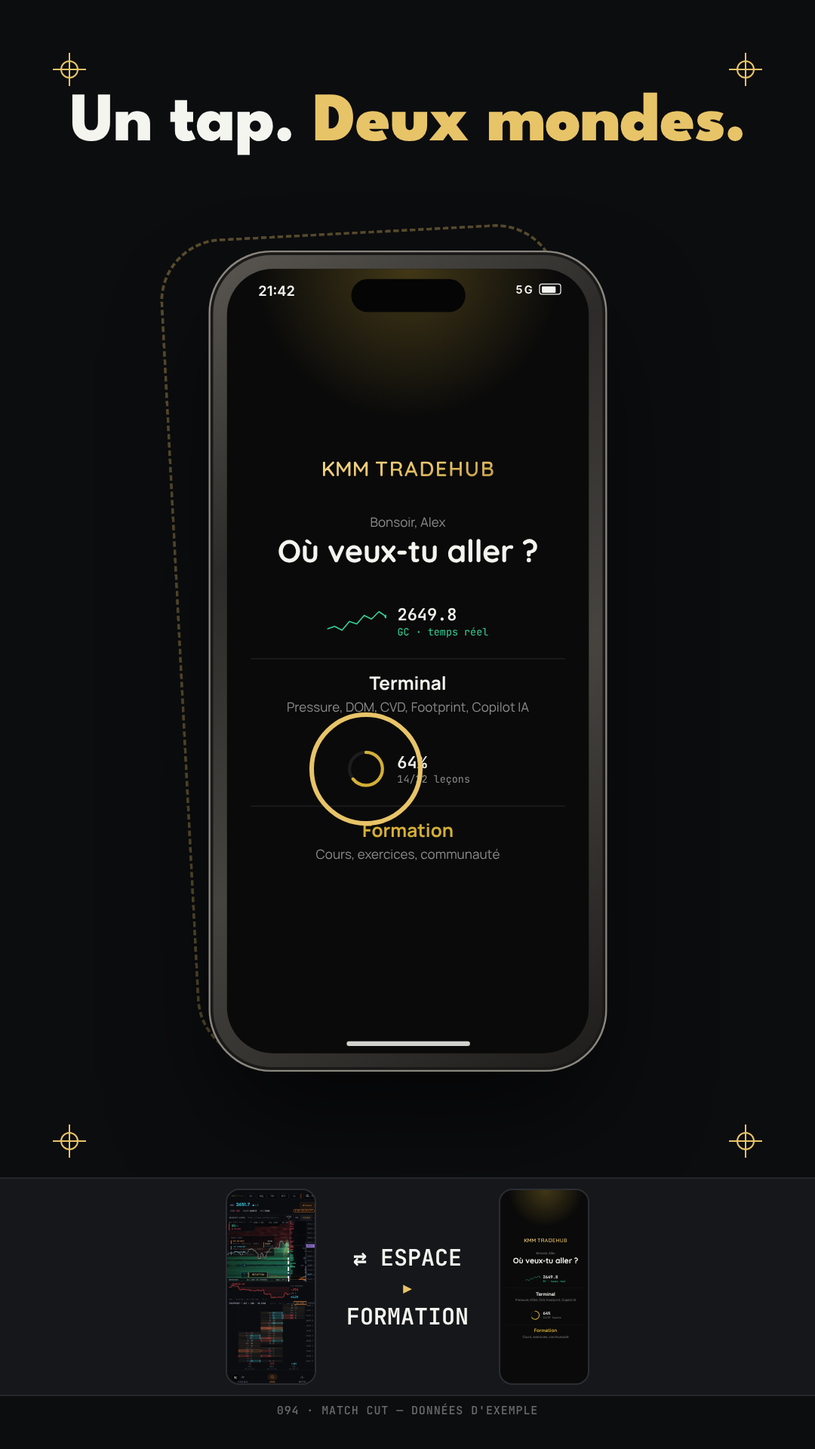
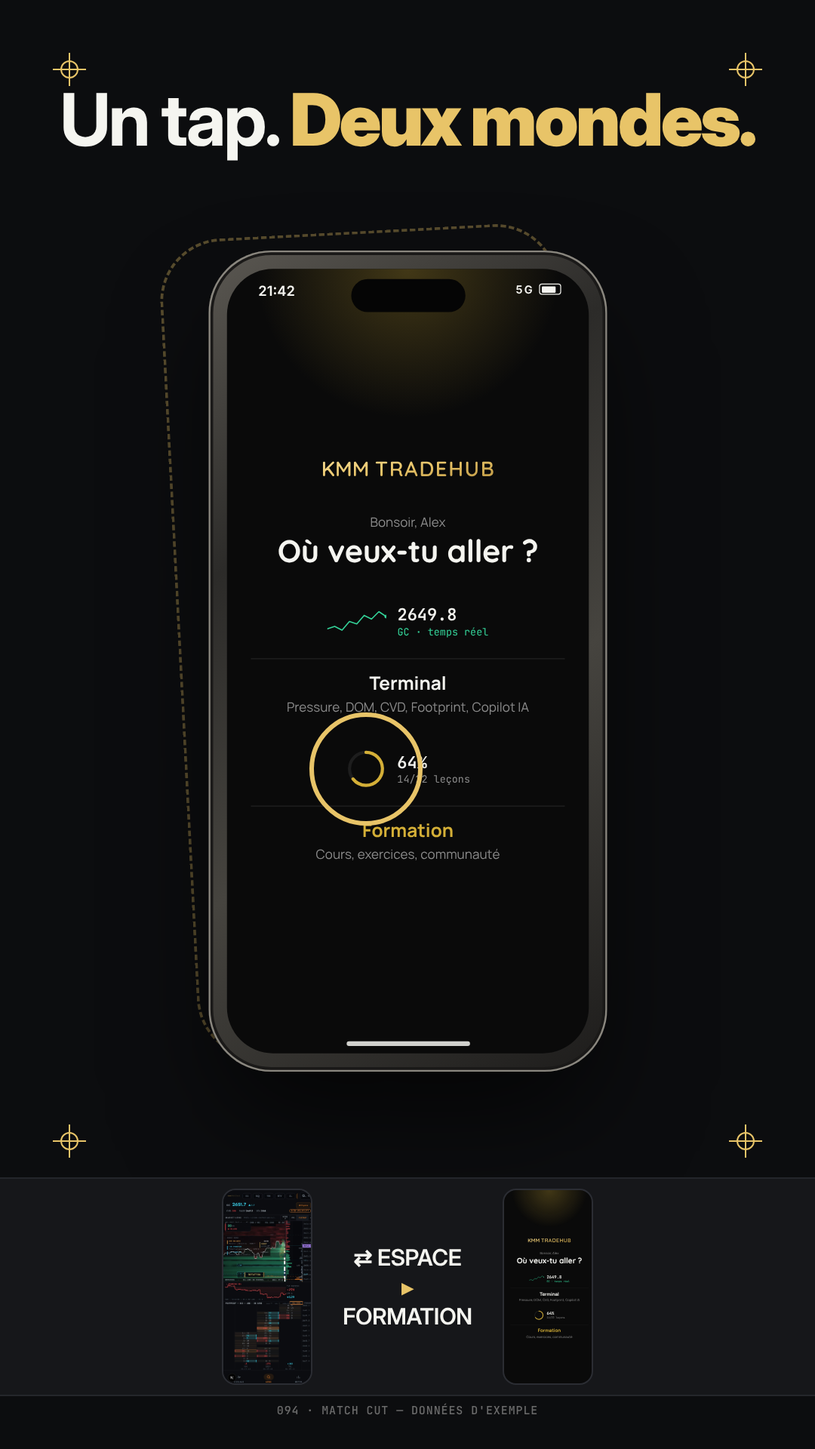
Storyboard, ledger and sketch sheet for the KMM Terminal launch film
Claude-Session: https://claude.ai/code/session_018p2rQxdw9kWT4Mbba8EZ7w

diff --git a/motion/kmm-terminal-launch/sketch/f5.html b/motion/kmm-terminal-launch/sketch/f5.html
@@ -1,0 +1,29 @@
+<!doctype html><html lang="fr"><head><meta charset="utf-8"><link rel="stylesheet" href="../themes/shared.css"><style>
+.fh{position:absolute;inset:0;padding:70px 20px 0;font-family:Manrope,sans-serif}
+.fh .top{display:flex;justify-content:space-between;align-items:flex-end}.fh .g{font-size:16px;color:var(--dim)}.fh .nm{font:700 30px/1.1 Quicksand,sans-serif}.fh .streak{color:#fb923c;font-size:14px;font-weight:600;padding-bottom:4px}
+.fh .next{margin-top:26px;display:flex;gap:14px;align-items:center;padding:18px;border-radius:18px;border:1px solid rgba(212,175,55,.25);background:linear-gradient(135deg,rgba(212,175,55,.08),rgba(212,175,55,.03))}
+.fh .rp{font-size:11px;font-weight:600;letter-spacing:.18em;color:rgba(212,175,55,.7)}.fh .lt{font-size:15px;font-weight:600;margin-top:3px}.fh .ct{font-size:12px;color:var(--dim)}
+.fh .stats{margin-top:22px;display:flex;align-items:center;padding:18px 10px;border-radius:18px;border:1px solid rgba(255,255,255,.07);background:var(--panel)}.fh .stats div{flex:1;text-align:center}.fh .stats p{font-size:24px;font-weight:700}.fh .stats span{font-size:11px;color:var(--dim);letter-spacing:.06em}.fh .stats i{width:1px;height:36px;background:rgba(255,255,255,.08)}
+.fh .h2{margin-top:26px;font:700 20px/1 Quicksand,sans-serif}
+.fh .course{margin-top:12px;display:flex;gap:14px;align-items:center;padding:14px;border-radius:14px;border:1px solid rgba(255,255,255,.07);background:var(--panel)}.fh .ctt{font-size:14px;font-weight:600}.fh .ctn{font-size:12px;color:var(--dim);margin-top:2px}
+.fh .nav{position:absolute;left:0;right:0;bottom:0;height:84px;border-top:1px solid rgba(255,255,255,.07);background:#0d0d0d;display:flex;justify-content:space-around;padding-top:16px;font-size:11px;color:var(--faint)}.fh .nav .on{color:var(--gold)}
+body{background:#0c0d0f}
+.H{position:absolute;left:0;right:0;text-align:center;font:700 104px/1.02 InterD,sans-serif;letter-spacing:-.035em;color:#f5f5f7}
+.H span{color:#86868b}.H b{color:var(--gold-m);font-weight:700}
+.S{position:absolute;left:0;right:0;text-align:center;font:500 36px/1.2 InterD,sans-serif;color:#86868b;letter-spacing:-.01em}
+.circ{position:absolute;left:465px;top:885px;width:150px;height:150px;border-radius:50%;border:6px solid var(--gold-m)}
+.num{position:absolute;left:24px;top:24px;font:600 22px/1 'JetBrains Mono',monospace;color:#6e6e73;letter-spacing:.06em}
+.ex{position:absolute;left:0;right:0;bottom:40px;text-align:center}
+.card3d{position:absolute;width:520px;padding:26px 30px;border-radius:22px;background:#111317;border:1px solid #2a2e35;box-shadow:0 40px 80px rgba(0,0,0,.6);font-family:'JetBrains Mono',monospace}
+.card3d .k{color:#e8822a;font-weight:600;font-size:28px;letter-spacing:.04em}.card3d .k small{color:#6b7683;font-size:18px;margin-left:10px}.card3d .sc{float:right;color:#e8822a;font-size:28px}.card3d .d{color:#c8d2da;font-size:22px;margin-top:10px;line-height:1.35}
+.dot{position:absolute;width:64px;height:64px;border-radius:50%;background:rgba(232,196,104,.25);border:3px solid var(--gold-m)}
+</style></head><body><div class="stage"><div class="iphone" style="left:324px;top:120px;transform:scale(.78)"><div class="screen"><div class="island"></div><div class="status"><span>21:42</span><span>5G</span></div><div class="hub"><div class="glow"></div>
+  <svg class="logo" viewBox="0 0 225 64" role="img" aria-label="KMM Trade Hub"><defs><linearGradient id="lg" x1="0" y1="0" x2="1" y2="1"><stop offset="0%" stop-color="#f5dc96"/><stop offset="50%" stop-color="#e8c468"/><stop offset="100%" stop-color="#b8923e"/></linearGradient></defs><text x="4" y="44" font-size="26" font-weight="600" fill="url(#lg)" style="font-family:Quicksand,sans-serif"><tspan>KMM</tspan><tspan letter-spacing="1.5" dx="7">TRADEHUB</tspan></text></svg>
+  <p class="hello">Bonsoir, Alex</p>
+  <h1>Où veux-tu aller ?</h1>
+  <div class="card"><div class="mock"><svg viewBox="0 0 96 40" width="64" height="28" fill="none"><polyline points="0,32 12,28 24,34 36,20 48,24 60,10 72,16 84,4 96,12" stroke="#34d399" stroke-width="2" stroke-linecap="round" stroke-linejoin="round"/><circle cx="96" cy="12" r="3" fill="#34d399"/></svg><div><p class="n">2649.8</p><p class="s" style="color:#34d399">GC · temps réel</p></div></div>
+    <div class="rule"><p class="t">Terminal</p><p class="b">Pressure, DOM, CVD, Footprint, Copilot IA</p></div></div>
+  <div class="card on"><div class="mock"><svg viewBox="0 0 64 64" width="44" height="44" style="transform:rotate(-90deg)"><circle cx="32" cy="32" r="26" fill="none" stroke="rgba(255,255,255,.08)" stroke-width="5"/><circle cx="32" cy="32" r="26" fill="none" stroke="#d4af37" stroke-width="5" stroke-linecap="round" stroke-dasharray="163.4" stroke-dashoffset="58.8"/></svg><div><p class="n">64%</p><p class="s" style="color:var(--dim)">14/22 leçons</p></div></div>
+    <div class="rule"><p class="t">Formation</p><p class="b">Cours, exercices, communauté</p></div></div>
+</div>
+<div class="home"></div></div></div><p class="H" style="top:1050px;font-size:110px">Ton terminal.<br>Ta formation.<br><span>Enfin dans ta poche</span><b>.</b></p><svg viewBox="0 0 225 64" style="position:absolute;left:390px;top:1560px;width:300px"><defs><linearGradient id="lg2" x1="0" y1="0" x2="1" y2="1"><stop offset="0%" stop-color="#f5dc96"/><stop offset="50%" stop-color="#e8c468"/><stop offset="100%" stop-color="#b8923e"/></linearGradient></defs><text x="4" y="44" font-size="26" font-weight="600" fill="url(#lg2)" style="font-family:Quicksand,sans-serif"><tspan>KMM</tspan><tspan letter-spacing="1.5" dx="7">TRADEHUB</tspan></text></svg><p class="S" style="top:1690px">kmmterminal.com</p><p class="num">5 · 0:17–20</p></div></body></html>

diff --git a/motion/kmm-terminal-launch/sketch/f3b.html b/motion/kmm-terminal-launch/sketch/f3b.html
@@ -1,0 +1,29 @@
+<!doctype html><html lang="fr"><head><meta charset="utf-8"><link rel="stylesheet" href="../themes/shared.css"><style>
+.fh{position:absolute;inset:0;padding:70px 20px 0;font-family:Manrope,sans-serif}
+.fh .top{display:flex;justify-content:space-between;align-items:flex-end}.fh .g{font-size:16px;color:var(--dim)}.fh .nm{font:700 30px/1.1 Quicksand,sans-serif}.fh .streak{color:#fb923c;font-size:14px;font-weight:600;padding-bottom:4px}
+.fh .next{margin-top:26px;display:flex;gap:14px;align-items:center;padding:18px;border-radius:18px;border:1px solid rgba(212,175,55,.25);background:linear-gradient(135deg,rgba(212,175,55,.08),rgba(212,175,55,.03))}
+.fh .rp{font-size:11px;font-weight:600;letter-spacing:.18em;color:rgba(212,175,55,.7)}.fh .lt{font-size:15px;font-weight:600;margin-top:3px}.fh .ct{font-size:12px;color:var(--dim)}
+.fh .stats{margin-top:22px;display:flex;align-items:center;padding:18px 10px;border-radius:18px;border:1px solid rgba(255,255,255,.07);background:var(--panel)}.fh .stats div{flex:1;text-align:center}.fh .stats p{font-size:24px;font-weight:700}.fh .stats span{font-size:11px;color:var(--dim);letter-spacing:.06em}.fh .stats i{width:1px;height:36px;background:rgba(255,255,255,.08)}
+.fh .h2{margin-top:26px;font:700 20px/1 Quicksand,sans-serif}
+.fh .course{margin-top:12px;display:flex;gap:14px;align-items:center;padding:14px;border-radius:14px;border:1px solid rgba(255,255,255,.07);background:var(--panel)}.fh .ctt{font-size:14px;font-weight:600}.fh .ctn{font-size:12px;color:var(--dim);margin-top:2px}
+.fh .nav{position:absolute;left:0;right:0;bottom:0;height:84px;border-top:1px solid rgba(255,255,255,.07);background:#0d0d0d;display:flex;justify-content:space-around;padding-top:16px;font-size:11px;color:var(--faint)}.fh .nav .on{color:var(--gold)}
+body{background:#0c0d0f}
+.H{position:absolute;left:0;right:0;text-align:center;font:700 104px/1.02 InterD,sans-serif;letter-spacing:-.035em;color:#f5f5f7}
+.H span{color:#86868b}.H b{color:var(--gold-m);font-weight:700}
+.S{position:absolute;left:0;right:0;text-align:center;font:500 36px/1.2 InterD,sans-serif;color:#86868b;letter-spacing:-.01em}
+.circ{position:absolute;left:465px;top:885px;width:150px;height:150px;border-radius:50%;border:6px solid var(--gold-m)}
+.num{position:absolute;left:24px;top:24px;font:600 22px/1 'JetBrains Mono',monospace;color:#6e6e73;letter-spacing:.06em}
+.ex{position:absolute;left:0;right:0;bottom:40px;text-align:center}
+.card3d{position:absolute;width:520px;padding:26px 30px;border-radius:22px;background:#111317;border:1px solid #2a2e35;box-shadow:0 40px 80px rgba(0,0,0,.6);font-family:'JetBrains Mono',monospace}
+.card3d .k{color:#e8822a;font-weight:600;font-size:28px;letter-spacing:.04em}.card3d .k small{color:#6b7683;font-size:18px;margin-left:10px}.card3d .sc{float:right;color:#e8822a;font-size:28px}.card3d .d{color:#c8d2da;font-size:22px;margin-top:10px;line-height:1.35}
+.dot{position:absolute;width:64px;height:64px;border-radius:50%;background:rgba(232,196,104,.25);border:3px solid var(--gold-m)}
+</style></head><body><div class="stage"><div class="iphone" style="left:324px;top:330px;transform:scale(1.22)"><div class="screen"><div class="island"></div><div class="status"><span>21:42</span><span>5G</span></div><div class="fh">
+<div class="top"><div><p class="g">Bonsoir,</p><p class="nm">Alex</p></div><p class="streak">🔥 6j de suite</p></div>
+<div class="next"><svg viewBox="0 0 64 64" width="52" height="52" style="transform:rotate(-90deg)"><circle cx="32" cy="32" r="26" fill="none" stroke="rgba(255,255,255,.08)" stroke-width="5"/><circle cx="32" cy="32" r="26" fill="none" stroke="#d4af37" stroke-width="5" stroke-linecap="round" stroke-dasharray="163.4" stroke-dashoffset="98"/></svg>
+<div><p class="rp">REPRENDRE</p><p class="lt">Jour 3 — Structure du marché (les bases)</p><p class="ct">Masterclass XAUUSD Gold</p></div></div>
+<div class="stats"><div><p>14</p><span>LEÇONS</span></div><i></i><div><p>6</p><span>STREAK</span></div><i></i><div><p>64%</p><span>COMPLÉTÉ</span></div></div>
+<p class="h2">Mes cours</p>
+<div class="course"><svg viewBox="0 0 64 64" width="40" height="40" style="transform:rotate(-90deg)"><circle cx="32" cy="32" r="26" fill="none" stroke="rgba(255,255,255,.08)" stroke-width="6"/><circle cx="32" cy="32" r="26" fill="none" stroke="#d4af37" stroke-width="6" stroke-dasharray="163.4" stroke-dashoffset="66" stroke-linecap="round"/></svg><div><p class="ctt">Masterclass XAUUSD Gold</p><p class="ctn">9 / 15 leçons</p></div></div>
+<div class="course"><svg viewBox="0 0 64 64" width="40" height="40" style="transform:rotate(-90deg)"><circle cx="32" cy="32" r="26" fill="none" stroke="rgba(255,255,255,.08)" stroke-width="6"/><circle cx="32" cy="32" r="26" fill="none" stroke="#d4af37" stroke-width="6" stroke-dasharray="163.4" stroke-dashoffset="61" stroke-linecap="round"/></svg><div><p class="ctt">Les EMA 9, 21 &amp; 50</p><p class="ctn">5 / 8 leçons</p></div></div>
+<div class="nav"><span class="on">Home</span><span>Cours</span><span>Communauté</span><span>Classement</span></div>
+</div><div class="home"></div></div></div><p class="H" style="top:1560px;font-size:88px">Apprends.</p><p class="num">3b · 0:11.4</p></div></body></html>

diff --git a/motion/kmm-terminal-launch/sketch/f3a.html b/motion/kmm-terminal-launch/sketch/f3a.html
@@ -1,0 +1,29 @@
+<!doctype html><html lang="fr"><head><meta charset="utf-8"><link rel="stylesheet" href="../themes/shared.css"><style>
+.fh{position:absolute;inset:0;padding:70px 20px 0;font-family:Manrope,sans-serif}
+.fh .top{display:flex;justify-content:space-between;align-items:flex-end}.fh .g{font-size:16px;color:var(--dim)}.fh .nm{font:700 30px/1.1 Quicksand,sans-serif}.fh .streak{color:#fb923c;font-size:14px;font-weight:600;padding-bottom:4px}
+.fh .next{margin-top:26px;display:flex;gap:14px;align-items:center;padding:18px;border-radius:18px;border:1px solid rgba(212,175,55,.25);background:linear-gradient(135deg,rgba(212,175,55,.08),rgba(212,175,55,.03))}
+.fh .rp{font-size:11px;font-weight:600;letter-spacing:.18em;color:rgba(212,175,55,.7)}.fh .lt{font-size:15px;font-weight:600;margin-top:3px}.fh .ct{font-size:12px;color:var(--dim)}
+.fh .stats{margin-top:22px;display:flex;align-items:center;padding:18px 10px;border-radius:18px;border:1px solid rgba(255,255,255,.07);background:var(--panel)}.fh .stats div{flex:1;text-align:center}.fh .stats p{font-size:24px;font-weight:700}.fh .stats span{font-size:11px;color:var(--dim);letter-spacing:.06em}.fh .stats i{width:1px;height:36px;background:rgba(255,255,255,.08)}
+.fh .h2{margin-top:26px;font:700 20px/1 Quicksand,sans-serif}
+.fh .course{margin-top:12px;display:flex;gap:14px;align-items:center;padding:14px;border-radius:14px;border:1px solid rgba(255,255,255,.07);background:var(--panel)}.fh .ctt{font-size:14px;font-weight:600}.fh .ctn{font-size:12px;color:var(--dim);margin-top:2px}
+.fh .nav{position:absolute;left:0;right:0;bottom:0;height:84px;border-top:1px solid rgba(255,255,255,.07);background:#0d0d0d;display:flex;justify-content:space-around;padding-top:16px;font-size:11px;color:var(--faint)}.fh .nav .on{color:var(--gold)}
+body{background:#0c0d0f}
+.H{position:absolute;left:0;right:0;text-align:center;font:700 104px/1.02 InterD,sans-serif;letter-spacing:-.035em;color:#f5f5f7}
+.H span{color:#86868b}.H b{color:var(--gold-m);font-weight:700}
+.S{position:absolute;left:0;right:0;text-align:center;font:500 36px/1.2 InterD,sans-serif;color:#86868b;letter-spacing:-.01em}
+.circ{position:absolute;left:465px;top:885px;width:150px;height:150px;border-radius:50%;border:6px solid var(--gold-m)}
+.num{position:absolute;left:24px;top:24px;font:600 22px/1 'JetBrains Mono',monospace;color:#6e6e73;letter-spacing:.06em}
+.ex{position:absolute;left:0;right:0;bottom:40px;text-align:center}
+.card3d{position:absolute;width:520px;padding:26px 30px;border-radius:22px;background:#111317;border:1px solid #2a2e35;box-shadow:0 40px 80px rgba(0,0,0,.6);font-family:'JetBrains Mono',monospace}
+.card3d .k{color:#e8822a;font-weight:600;font-size:28px;letter-spacing:.04em}.card3d .k small{color:#6b7683;font-size:18px;margin-left:10px}.card3d .sc{float:right;color:#e8822a;font-size:28px}.card3d .d{color:#c8d2da;font-size:22px;margin-top:10px;line-height:1.35}
+.dot{position:absolute;width:64px;height:64px;border-radius:50%;background:rgba(232,196,104,.25);border:3px solid var(--gold-m)}
+</style></head><body><div class="stage"><div class="iphone" style="left:324px;top:330px;transform:scale(1.22)"><div class="screen"><div class="island"></div><div class="status"><span>21:42</span><span>5G</span></div><div class="hub"><div class="glow"></div>
+  <svg class="logo" viewBox="0 0 225 64" role="img" aria-label="KMM Trade Hub"><defs><linearGradient id="lg" x1="0" y1="0" x2="1" y2="1"><stop offset="0%" stop-color="#f5dc96"/><stop offset="50%" stop-color="#e8c468"/><stop offset="100%" stop-color="#b8923e"/></linearGradient></defs><text x="4" y="44" font-size="26" font-weight="600" fill="url(#lg)" style="font-family:Quicksand,sans-serif"><tspan>KMM</tspan><tspan letter-spacing="1.5" dx="7">TRADEHUB</tspan></text></svg>
+  <p class="hello">Bonsoir, Alex</p>
+  <h1>Où veux-tu aller ?</h1>
+  <div class="card"><div class="mock"><svg viewBox="0 0 96 40" width="64" height="28" fill="none"><polyline points="0,32 12,28 24,34 36,20 48,24 60,10 72,16 84,4 96,12" stroke="#34d399" stroke-width="2" stroke-linecap="round" stroke-linejoin="round"/><circle cx="96" cy="12" r="3" fill="#34d399"/></svg><div><p class="n">2649.8</p><p class="s" style="color:#34d399">GC · temps réel</p></div></div>
+    <div class="rule"><p class="t">Terminal</p><p class="b">Pressure, DOM, CVD, Footprint, Copilot IA</p></div></div>
+  <div class="card on"><div class="mock"><svg viewBox="0 0 64 64" width="44" height="44" style="transform:rotate(-90deg)"><circle cx="32" cy="32" r="26" fill="none" stroke="rgba(255,255,255,.08)" stroke-width="5"/><circle cx="32" cy="32" r="26" fill="none" stroke="#d4af37" stroke-width="5" stroke-linecap="round" stroke-dasharray="163.4" stroke-dashoffset="58.8"/></svg><div><p class="n">64%</p><p class="s" style="color:var(--dim)">14/22 leçons</p></div></div>
+    <div class="rule"><p class="t">Formation</p><p class="b">Cours, exercices, communauté</p></div></div>
+</div>
+<div class="home"></div></div></div><div class="dot" style="left:610px;top:1010px"></div><p class="num">3a · 0:08</p></div></body></html>

diff --git a/motion/kmm-terminal-launch/sketch/f2.html b/motion/kmm-terminal-launch/sketch/f2.html
@@ -1,0 +1,20 @@
+<!doctype html><html lang="fr"><head><meta charset="utf-8"><link rel="stylesheet" href="../themes/shared.css"><style>
+.fh{position:absolute;inset:0;padding:70px 20px 0;font-family:Manrope,sans-serif}
+.fh .top{display:flex;justify-content:space-between;align-items:flex-end}.fh .g{font-size:16px;color:var(--dim)}.fh .nm{font:700 30px/1.1 Quicksand,sans-serif}.fh .streak{color:#fb923c;font-size:14px;font-weight:600;padding-bottom:4px}
+.fh .next{margin-top:26px;display:flex;gap:14px;align-items:center;padding:18px;border-radius:18px;border:1px solid rgba(212,175,55,.25);background:linear-gradient(135deg,rgba(212,175,55,.08),rgba(212,175,55,.03))}
+.fh .rp{font-size:11px;font-weight:600;letter-spacing:.18em;color:rgba(212,175,55,.7)}.fh .lt{font-size:15px;font-weight:600;margin-top:3px}.fh .ct{font-size:12px;color:var(--dim)}
+.fh .stats{margin-top:22px;display:flex;align-items:center;padding:18px 10px;border-radius:18px;border:1px solid rgba(255,255,255,.07);background:var(--panel)}.fh .stats div{flex:1;text-align:center}.fh .stats p{font-size:24px;font-weight:700}.fh .stats span{font-size:11px;color:var(--dim);letter-spacing:.06em}.fh .stats i{width:1px;height:36px;background:rgba(255,255,255,.08)}
+.fh .h2{margin-top:26px;font:700 20px/1 Quicksand,sans-serif}
+.fh .course{margin-top:12px;display:flex;gap:14px;align-items:center;padding:14px;border-radius:14px;border:1px solid rgba(255,255,255,.07);background:var(--panel)}.fh .ctt{font-size:14px;font-weight:600}.fh .ctn{font-size:12px;color:var(--dim);margin-top:2px}
+.fh .nav{position:absolute;left:0;right:0;bottom:0;height:84px;border-top:1px solid rgba(255,255,255,.07);background:#0d0d0d;display:flex;justify-content:space-around;padding-top:16px;font-size:11px;color:var(--faint)}.fh .nav .on{color:var(--gold)}
+body{background:#0c0d0f}
+.H{position:absolute;left:0;right:0;text-align:center;font:700 104px/1.02 InterD,sans-serif;letter-spacing:-.035em;color:#f5f5f7}
+.H span{color:#86868b}.H b{color:var(--gold-m);font-weight:700}
+.S{position:absolute;left:0;right:0;text-align:center;font:500 36px/1.2 InterD,sans-serif;color:#86868b;letter-spacing:-.01em}
+.circ{position:absolute;left:465px;top:885px;width:150px;height:150px;border-radius:50%;border:6px solid var(--gold-m)}
+.num{position:absolute;left:24px;top:24px;font:600 22px/1 'JetBrains Mono',monospace;color:#6e6e73;letter-spacing:.06em}
+.ex{position:absolute;left:0;right:0;bottom:40px;text-align:center}
+.card3d{position:absolute;width:520px;padding:26px 30px;border-radius:22px;background:#111317;border:1px solid #2a2e35;box-shadow:0 40px 80px rgba(0,0,0,.6);font-family:'JetBrains Mono',monospace}
+.card3d .k{color:#e8822a;font-weight:600;font-size:28px;letter-spacing:.04em}.card3d .k small{color:#6b7683;font-size:18px;margin-left:10px}.card3d .sc{float:right;color:#e8822a;font-size:28px}.card3d .d{color:#c8d2da;font-size:22px;margin-top:10px;line-height:1.35}
+.dot{position:absolute;width:64px;height:64px;border-radius:50%;background:rgba(232,196,104,.25);border:3px solid var(--gold-m)}
+</style></head><body><div class="stage"><div class="iphone" style="left:323px;top:300px;transform:perspective(1600px) rotateY(-16deg) rotateZ(-3deg) scale(1.18)"><div class="screen"><div class="island"></div><div class="status"><span>21:42</span><span>5G</span></div><img class="cap" src="../assets/captures/terminal-lens.jpg"><div class="home"></div></div></div><div class="card3d" style="left:470px;top:760px;transform:perspective(1600px) rotateY(-16deg) translateZ(120px)"><span class="sc">76</span><p class="k">SWEEP<small>FLOW</small></p><p class="d">110 aggressive buys swept 4 ticks of book</p></div><p class="H" style="top:1500px;font-size:88px">Lis le marché.</p><p class="tag-ex ex">DONNÉES D'EXEMPLE</p><p class="num">2 · 0:01.8–8</p></div></body></html>

diff --git a/motion/kmm-terminal-launch/sketch/f4.html b/motion/kmm-terminal-launch/sketch/f4.html
@@ -1,0 +1,20 @@
+<!doctype html><html lang="fr"><head><meta charset="utf-8"><link rel="stylesheet" href="../themes/shared.css"><style>
+.fh{position:absolute;inset:0;padding:70px 20px 0;font-family:Manrope,sans-serif}
+.fh .top{display:flex;justify-content:space-between;align-items:flex-end}.fh .g{font-size:16px;color:var(--dim)}.fh .nm{font:700 30px/1.1 Quicksand,sans-serif}.fh .streak{color:#fb923c;font-size:14px;font-weight:600;padding-bottom:4px}
+.fh .next{margin-top:26px;display:flex;gap:14px;align-items:center;padding:18px;border-radius:18px;border:1px solid rgba(212,175,55,.25);background:linear-gradient(135deg,rgba(212,175,55,.08),rgba(212,175,55,.03))}
+.fh .rp{font-size:11px;font-weight:600;letter-spacing:.18em;color:rgba(212,175,55,.7)}.fh .lt{font-size:15px;font-weight:600;margin-top:3px}.fh .ct{font-size:12px;color:var(--dim)}
+.fh .stats{margin-top:22px;display:flex;align-items:center;padding:18px 10px;border-radius:18px;border:1px solid rgba(255,255,255,.07);background:var(--panel)}.fh .stats div{flex:1;text-align:center}.fh .stats p{font-size:24px;font-weight:700}.fh .stats span{font-size:11px;color:var(--dim);letter-spacing:.06em}.fh .stats i{width:1px;height:36px;background:rgba(255,255,255,.08)}
+.fh .h2{margin-top:26px;font:700 20px/1 Quicksand,sans-serif}
+.fh .course{margin-top:12px;display:flex;gap:14px;align-items:center;padding:14px;border-radius:14px;border:1px solid rgba(255,255,255,.07);background:var(--panel)}.fh .ctt{font-size:14px;font-weight:600}.fh .ctn{font-size:12px;color:var(--dim);margin-top:2px}
+.fh .nav{position:absolute;left:0;right:0;bottom:0;height:84px;border-top:1px solid rgba(255,255,255,.07);background:#0d0d0d;display:flex;justify-content:space-around;padding-top:16px;font-size:11px;color:var(--faint)}.fh .nav .on{color:var(--gold)}
+body{background:#0c0d0f}
+.H{position:absolute;left:0;right:0;text-align:center;font:700 104px/1.02 InterD,sans-serif;letter-spacing:-.035em;color:#f5f5f7}
+.H span{color:#86868b}.H b{color:var(--gold-m);font-weight:700}
+.S{position:absolute;left:0;right:0;text-align:center;font:500 36px/1.2 InterD,sans-serif;color:#86868b;letter-spacing:-.01em}
+.circ{position:absolute;left:465px;top:885px;width:150px;height:150px;border-radius:50%;border:6px solid var(--gold-m)}
+.num{position:absolute;left:24px;top:24px;font:600 22px/1 'JetBrains Mono',monospace;color:#6e6e73;letter-spacing:.06em}
+.ex{position:absolute;left:0;right:0;bottom:40px;text-align:center}
+.card3d{position:absolute;width:520px;padding:26px 30px;border-radius:22px;background:#111317;border:1px solid #2a2e35;box-shadow:0 40px 80px rgba(0,0,0,.6);font-family:'JetBrains Mono',monospace}
+.card3d .k{color:#e8822a;font-weight:600;font-size:28px;letter-spacing:.04em}.card3d .k small{color:#6b7683;font-size:18px;margin-left:10px}.card3d .sc{float:right;color:#e8822a;font-size:28px}.card3d .d{color:#c8d2da;font-size:22px;margin-top:10px;line-height:1.35}
+.dot{position:absolute;width:64px;height:64px;border-radius:50%;background:rgba(232,196,104,.25);border:3px solid var(--gold-m)}
+</style></head><body><div class="stage"><div class="iphone" style="left:323px;top:380px;transform:perspective(1400px) rotateY(62deg) scale(1.1);filter:brightness(.85)"><div class="screen"><div class="island"></div><div class="status"><span>21:42</span><span>5G</span></div><img class="cap" src="../assets/captures/terminal-signals.jpg"><div class="home"></div></div></div><div style="position:absolute;left:150px;top:760px;width:780px;height:220px;border-radius:50%;border:2px dashed rgba(232,196,104,.35);transform:rotate(-8deg)"></div><p class="num">4 · 0:15.5</p></div></body></html>

diff --git a/motion/kmm-terminal-launch/sketch/f1b.html b/motion/kmm-terminal-launch/sketch/f1b.html
@@ -1,0 +1,20 @@
+<!doctype html><html lang="fr"><head><meta charset="utf-8"><link rel="stylesheet" href="../themes/shared.css"><style>
+.fh{position:absolute;inset:0;padding:70px 20px 0;font-family:Manrope,sans-serif}
+.fh .top{display:flex;justify-content:space-between;align-items:flex-end}.fh .g{font-size:16px;color:var(--dim)}.fh .nm{font:700 30px/1.1 Quicksand,sans-serif}.fh .streak{color:#fb923c;font-size:14px;font-weight:600;padding-bottom:4px}
+.fh .next{margin-top:26px;display:flex;gap:14px;align-items:center;padding:18px;border-radius:18px;border:1px solid rgba(212,175,55,.25);background:linear-gradient(135deg,rgba(212,175,55,.08),rgba(212,175,55,.03))}
+.fh .rp{font-size:11px;font-weight:600;letter-spacing:.18em;color:rgba(212,175,55,.7)}.fh .lt{font-size:15px;font-weight:600;margin-top:3px}.fh .ct{font-size:12px;color:var(--dim)}
+.fh .stats{margin-top:22px;display:flex;align-items:center;padding:18px 10px;border-radius:18px;border:1px solid rgba(255,255,255,.07);background:var(--panel)}.fh .stats div{flex:1;text-align:center}.fh .stats p{font-size:24px;font-weight:700}.fh .stats span{font-size:11px;color:var(--dim);letter-spacing:.06em}.fh .stats i{width:1px;height:36px;background:rgba(255,255,255,.08)}
+.fh .h2{margin-top:26px;font:700 20px/1 Quicksand,sans-serif}
+.fh .course{margin-top:12px;display:flex;gap:14px;align-items:center;padding:14px;border-radius:14px;border:1px solid rgba(255,255,255,.07);background:var(--panel)}.fh .ctt{font-size:14px;font-weight:600}.fh .ctn{font-size:12px;color:var(--dim);margin-top:2px}
+.fh .nav{position:absolute;left:0;right:0;bottom:0;height:84px;border-top:1px solid rgba(255,255,255,.07);background:#0d0d0d;display:flex;justify-content:space-around;padding-top:16px;font-size:11px;color:var(--faint)}.fh .nav .on{color:var(--gold)}
+body{background:#0c0d0f}
+.H{position:absolute;left:0;right:0;text-align:center;font:700 104px/1.02 InterD,sans-serif;letter-spacing:-.035em;color:#f5f5f7}
+.H span{color:#86868b}.H b{color:var(--gold-m);font-weight:700}
+.S{position:absolute;left:0;right:0;text-align:center;font:500 36px/1.2 InterD,sans-serif;color:#86868b;letter-spacing:-.01em}
+.circ{position:absolute;left:465px;top:885px;width:150px;height:150px;border-radius:50%;border:6px solid var(--gold-m)}
+.num{position:absolute;left:24px;top:24px;font:600 22px/1 'JetBrains Mono',monospace;color:#6e6e73;letter-spacing:.06em}
+.ex{position:absolute;left:0;right:0;bottom:40px;text-align:center}
+.card3d{position:absolute;width:520px;padding:26px 30px;border-radius:22px;background:#111317;border:1px solid #2a2e35;box-shadow:0 40px 80px rgba(0,0,0,.6);font-family:'JetBrains Mono',monospace}
+.card3d .k{color:#e8822a;font-weight:600;font-size:28px;letter-spacing:.04em}.card3d .k small{color:#6b7683;font-size:18px;margin-left:10px}.card3d .sc{float:right;color:#e8822a;font-size:28px}.card3d .d{color:#c8d2da;font-size:22px;margin-top:10px;line-height:1.35}
+.dot{position:absolute;width:64px;height:64px;border-radius:50%;background:rgba(232,196,104,.25);border:3px solid var(--gold-m)}
+</style></head><body><div class="stage"><svg viewBox="0 0 64 64" style="position:absolute;left:190px;top:610px;width:700px;height:700px;transform:rotate(-90deg)"><circle cx="32" cy="32" r="26" fill="none" stroke="rgba(255,255,255,.07)" stroke-width="5"/><circle cx="32" cy="32" r="26" fill="none" stroke="#d4af37" stroke-width="5" stroke-linecap="round" stroke-dasharray="163.4" stroke-dashoffset="58.8"/></svg><div class="circ"></div><p class="H" style="top:1330px"><b>Ta formation.</b></p><p class="num">1b · 0:01.2</p></div></body></html>

diff --git a/motion/kmm-terminal-launch/sketch/f1a.html b/motion/kmm-terminal-launch/sketch/f1a.html
@@ -1,0 +1,20 @@
+<!doctype html><html lang="fr"><head><meta charset="utf-8"><link rel="stylesheet" href="../themes/shared.css"><style>
+.fh{position:absolute;inset:0;padding:70px 20px 0;font-family:Manrope,sans-serif}
+.fh .top{display:flex;justify-content:space-between;align-items:flex-end}.fh .g{font-size:16px;color:var(--dim)}.fh .nm{font:700 30px/1.1 Quicksand,sans-serif}.fh .streak{color:#fb923c;font-size:14px;font-weight:600;padding-bottom:4px}
+.fh .next{margin-top:26px;display:flex;gap:14px;align-items:center;padding:18px;border-radius:18px;border:1px solid rgba(212,175,55,.25);background:linear-gradient(135deg,rgba(212,175,55,.08),rgba(212,175,55,.03))}
+.fh .rp{font-size:11px;font-weight:600;letter-spacing:.18em;color:rgba(212,175,55,.7)}.fh .lt{font-size:15px;font-weight:600;margin-top:3px}.fh .ct{font-size:12px;color:var(--dim)}
+.fh .stats{margin-top:22px;display:flex;align-items:center;padding:18px 10px;border-radius:18px;border:1px solid rgba(255,255,255,.07);background:var(--panel)}.fh .stats div{flex:1;text-align:center}.fh .stats p{font-size:24px;font-weight:700}.fh .stats span{font-size:11px;color:var(--dim);letter-spacing:.06em}.fh .stats i{width:1px;height:36px;background:rgba(255,255,255,.08)}
+.fh .h2{margin-top:26px;font:700 20px/1 Quicksand,sans-serif}
+.fh .course{margin-top:12px;display:flex;gap:14px;align-items:center;padding:14px;border-radius:14px;border:1px solid rgba(255,255,255,.07);background:var(--panel)}.fh .ctt{font-size:14px;font-weight:600}.fh .ctn{font-size:12px;color:var(--dim);margin-top:2px}
+.fh .nav{position:absolute;left:0;right:0;bottom:0;height:84px;border-top:1px solid rgba(255,255,255,.07);background:#0d0d0d;display:flex;justify-content:space-around;padding-top:16px;font-size:11px;color:var(--faint)}.fh .nav .on{color:var(--gold)}
+body{background:#0c0d0f}
+.H{position:absolute;left:0;right:0;text-align:center;font:700 104px/1.02 InterD,sans-serif;letter-spacing:-.035em;color:#f5f5f7}
+.H span{color:#86868b}.H b{color:var(--gold-m);font-weight:700}
+.S{position:absolute;left:0;right:0;text-align:center;font:500 36px/1.2 InterD,sans-serif;color:#86868b;letter-spacing:-.01em}
+.circ{position:absolute;left:465px;top:885px;width:150px;height:150px;border-radius:50%;border:6px solid var(--gold-m)}
+.num{position:absolute;left:24px;top:24px;font:600 22px/1 'JetBrains Mono',monospace;color:#6e6e73;letter-spacing:.06em}
+.ex{position:absolute;left:0;right:0;bottom:40px;text-align:center}
+.card3d{position:absolute;width:520px;padding:26px 30px;border-radius:22px;background:#111317;border:1px solid #2a2e35;box-shadow:0 40px 80px rgba(0,0,0,.6);font-family:'JetBrains Mono',monospace}
+.card3d .k{color:#e8822a;font-weight:600;font-size:28px;letter-spacing:.04em}.card3d .k small{color:#6b7683;font-size:18px;margin-left:10px}.card3d .sc{float:right;color:#e8822a;font-size:28px}.card3d .d{color:#c8d2da;font-size:22px;margin-top:10px;line-height:1.35}
+.dot{position:absolute;width:64px;height:64px;border-radius:50%;background:rgba(232,196,104,.25);border:3px solid var(--gold-m)}
+</style></head><body><div class="stage"><img src="../assets/captures/terminal-lens.jpg" style="position:absolute;left:-560px;top:-260px;width:2200px;filter:brightness(.8)"><div style="position:absolute;inset:0;background:linear-gradient(180deg,rgba(12,13,15,.2),rgba(12,13,15,.75))"></div><div class="circ"></div><p class="H" style="top:1330px">Ton terminal.</p><p class="num">1a · 0:00</p></div></body></html>

diff --git a/motion/kmm-terminal-launch/themes/B-094-match-cut.html b/motion/kmm-terminal-launch/themes/B-094-match-cut.html
@@ -7,12 +7,12 @@
 .ghostphone{position:absolute;left:324px;top:430px;width:433px;height:892px;border-radius:68px;border:3px dashed rgba(232,196,104,.35);transform:translate(-40px,-26px) scale(1.22) rotate(-3deg)}
 .circle{position:absolute;left:487px;top:888px;width:150px;height:150px;border-radius:50%;border:6px solid var(--gold-m)}
 .circle.g{border:3px dashed rgba(232,196,104,.45)}
-.h{position:absolute;left:0;right:0;top:118px;text-align:center;font:800 92px/1 'League Spartan',sans-serif;letter-spacing:-.01em}
+.h{position:absolute;left:0;right:0;top:110px;text-align:center;font:700 96px/1 InterD,sans-serif;letter-spacing:-.035em}
 .h b{color:var(--gold-m)}
 .strip{position:absolute;left:0;right:0;top:1560px;height:290px;background:#16171a;border-top:2px solid #24262b;border-bottom:2px solid #24262b;display:flex;align-items:center;justify-content:center;gap:40px}
 .strip .th{width:120px;height:260px;border-radius:18px;overflow:hidden;border:2px solid #2b2d33;position:relative;background:#0a0a0a}
 .strip .th img{width:120px}
-.strip .lab{font:600 30px/1.3 'JetBrains Mono',monospace;color:var(--fg);text-align:center}
+.strip .lab{font:600 30px/1.3 InterD,sans-serif;letter-spacing:-.01em;color:var(--fg);text-align:center}
 .strip .lab span{color:var(--gold-m)}
 .ex{position:absolute;left:0;right:0;top:1862px;text-align:center}
 .mini{transform:scale(.3053);transform-origin:0 0;width:393px;height:852px;position:absolute;left:0;top:0}

diff --git a/motion/kmm-terminal-launch/themes/shared.css b/motion/kmm-terminal-launch/themes/shared.css
@@ -1,3 +1,4 @@
+@font-face{font-family:InterD;src:url(../assets/fonts/inter-latin-opsz-normal.woff2) format('woff2');font-weight:100 900}
 @font-face{font-family:Quicksand;src:url(../assets/fonts/quicksand-latin-wght-normal.woff2) format('woff2');font-weight:300 700}
 @font-face{font-family:Manrope;src:url(../assets/fonts/manrope-latin-wght-normal.woff2) format('woff2');font-weight:200 800}
 @font-face{font-family:'JetBrains Mono';src:url(../assets/fonts/jetbrains-mono-latin-wght-normal.woff2) format('woff2');font-weight:100 800}

diff --git a/motion/kmm-terminal-launch/STORYBOARD.md b/motion/kmm-terminal-launch/STORYBOARD.md
@@ -1,0 +1,55 @@
+# Storyboard — KMM Terminal, lancement iPhone
+
+Theme: 094 Match Cut · Format: 1080x1920 (écrans iPhone 15 Pro capturés en 1179x2556) · Length: 20 s · Sound: musique + SFX
+
+## Message & tone
+- **Sentence:** I want to say "Ton terminal et ta formation, enfin dans ta poche" in a bold then premium tone, so the viewer feels that everything is finally in one place.
+- **Tone arc:** bold → premium → trustworthy → warm
+- accent: or KMM #e8c468
+- **Motif:** le cercle doré revient trois fois au même endroit de l'écran et change de sens à chaque fois : point du prix → anneau de progression → point final du slogan.
+
+## Ledger
+
+| # | start | dur | beat | tone | entrance | transition_out | ease | direction | palette | camera | components | new_component | sfx | notes |
+|---|---|---|---|---|---|---|---|---|---|---|---|---|---|---|
+| 1 | 0:00 | 1.2 | hook | bold | type-slam | motif:cut | expo.out | center | ink+cyan+red | locked | terminal-capture-macro, gold-circle | | kick | ref:01 rythme d'ouverture (2 coupes dans les 3 premières secondes) · motif:gold-circle sur le point du prix |
+| 2 | 0:01.2 | 0.6 | hook | bold | mask-wipe-up | T15-focal-iris | power4.out | up | gold+ink | push-in | progress-ring-macro, gold-circle | | snare | ref:01 · motif:gold-circle devient l'anneau de progression, au même endroit |
+| 3 | 0:01.8 | 6.2 | reveal | premium | edge-turn | T07-cursor-carry | power3.inOut | left | ink+cyan | dolly | iphone, terminal-capture, signal-card | | whoosh-soft | ref:01 téléphone de profil qui pivote de face, un plan long · surprise: l'iris s'ouvre sur l'iPhone vu de profil · carte signal « données d'exemple » |
+| 4 | 0:08.0 | 3.4 | proof | trustworthy | stagger-fade | T01-match-cut-shape | power2.out | right | ink+gold | locked | iphone, hub-espace, tap-dot | | tap | ref:01 le point de tap pilote la navigation · tap sur « ⇄ Espace » puis sur Formation |
+| 5 | 0:11.4 | 4.1 | proof | trustworthy | screen-assemble | T22-speed-ramp | sine.inOut | down | ink+green | slow-push | iphone, formation-home, progress-ring | | wood-tick | l'écran Formation se construit élément par élément, l'anneau monte à 64 % |
+| 6 | 0:15.5 | 1.5 | proof | bold | coin-flip | T03-graphic-match-color | expo.inOut | radial | ink+cyan | orbit | iphone | coin-flip-phone | whoosh-spin | surprise: freeze puis l'iPhone tourne comme une pièce, terminal sur une face, formation sur l'autre |
+| 7 | 0:17.0 | 3.0 | cta | warm | word-stack | end | power2.inOut | center | gold+ink | locked | logo, tagline, gold-circle | | chime | motif:gold-circle devient le point final de « poche. » · logo officiel |
+
+## The seven questions
+1. **Le message et le ton** : la phrase ci-dessus. Attaque franche sur deux mots, puis on ralentit pour laisser voir le vrai produit.
+2. **Ce qui se répète** : seulement le cercle doré, en motif (3 apparitions, trois sens).
+3. **Ce que veut dire chaque transition** : coupe sèche = deux mondes séparés ; iris depuis le cercle = on entre dans l'appli ; le point de tap = le geste de l'utilisateur ; raccord de forme = même place, nouvel espace ; accélération = on bascule ; couleur or = la promesse tenue.
+4. **Les couleurs dans le temps** : fond encre partout ; cyan et rouge seulement dans le terminal ; l'or ne domine que deux plans (plan 2 et le slogan final), c'est l'événement couleur du film.
+5. **Le composant nouveau** : le téléphone-pièce (coin-flip-phone).
+6. **La surprise** : l'iris qui s'ouvre sur un iPhone de profil (1,8 s), puis l'arrêt sur image et la pièce qui tourne (15,5 s).
+7. **Une répétition d'un film précédent** : aucun historique, c'est le premier film.
+
+## Frames
+
+### Frame 1 · Hook (0–1,8 s)
+- key visual : macro plein écran sur le vrai terminal (heatmap, prix GC) ; le point du prix est entouré du cercle doré. Coupe sèche : macro sur l'anneau de progression de la formation, le cercle doré au même endroit.
+- moves first : le mot claque au centre (expo.out), puis le second mot monte (power4.out).
+- on-screen words : « Ton terminal. » puis « Ta formation. »
+
+### Frame 2 · Reveal (1,8–8 s)
+- key visual : l'anneau s'ouvre en iris sur l'iPhone 15 Pro vu de profil, qui pivote de face et flotte légèrement incliné. À l'écran, la vraie capture du terminal tourne ; une carte signal (ex. SWEEP, score) sort en relief de l'écran.
+- moves first : la rotation du téléphone (power3.inOut), puis la carte.
+- on-screen words : « Lis le marché. » · « Données d'exemple » en petit.
+
+### Frame 3 · Proof moment (8–15,5 s)
+- key visual : le point de tap doré glisse jusqu'à « ⇄ Espace », tape ; l'écran « Où veux-tu aller ? » apparaît ; deuxième tap sur Formation ; l'accueil Formation se construit, l'anneau monte à 64 %, la série et la prochaine leçon arrivent.
+- moves first : le point de tap, puis les cartes en cascade.
+- on-screen words : « Apprends. »
+
+### Frame 4 · Surprise (15,5–17 s)
+- key visual : arrêt sur image d'une demi-seconde, silence, puis l'iPhone tourne sur lui-même comme une pièce : terminal sur une face, formation sur l'autre. Il retombe de face.
+- new component : coin-flip-phone. Verbe : réunir. Métaphore : les deux faces d'une même pièce. Vérité : c'est bien la même appli.
+
+### Frame 5 · CTA (17–20 s)
+- key visual : l'iPhone recule, le slogan s'empile en Inter Display ; le cercle doré se pose et devient le point final de « poche. ». Logo KMM officiel dessous.
+- on-screen words : « Ton terminal. Ta formation. Enfin dans ta poche. » + logo + ligne d'action (App Store ou site, à confirmer).

diff --git a/motion/kmm-terminal-launch/BRIEF.md b/motion/kmm-terminal-launch/BRIEF.md
@@ -4,7 +4,7 @@ format: 1080x1920              # vertical iPhone ; écrans capturés en iPhone 1
 duration: 20s
 audio: music                   # musique + SFX, sans voix off
 loop: false
-theme: "à choisir à l'étape 3"
+theme: "094 Match Cut"           # cercle doré qui passe d'un plan à l'autre, au même endroit
 ---
 
 # KMM Terminal — lancement de l'appli mobile
@@ -33,7 +33,7 @@ Score /8 = actuel + calme + dans la marque + montre la preuve (0–2 chacun).
 | Communauté / lives (aperçu) | `communaute`, `calendrier` | — | réel, optionnel | seulement si le rythme le permet |
 | Écran de connexion Face ID | `FaceIdToggle`, login | — | non retenu | pas la preuve |
 
-**Brand:** logo officiel `terminalkmm/components/Logo.tsx` / `public/brand/kmm-tradehub-logo.png` / `public/logo-mark.svg` · or KMM #e8c468 (accents, CTA) · fonds #050607 / #0a0c0f (pas de noir pur) · terminal : cyan acheteurs #35c8e0, rouge vendeurs #e5484d, orange #e8822a · texte #f5f5f7 / #86868b · polices Quicksand (titres app), Manrope (texte), JetBrains Mono (chiffres).
+**Brand:** logo officiel `terminalkmm/components/Logo.tsx` / `public/brand/kmm-tradehub-logo.png` / `public/logo-mark.svg` · or KMM #e8c468 (accents, CTA) · fonds #050607 / #0a0c0f (pas de noir pur) · terminal : cyan acheteurs #35c8e0, rouge vendeurs #e5484d, orange #e8822a · texte #f5f5f7 / #86868b · polices : **Inter Display** pour tous les textes de la pub (titres serrés façon Apple) ; à l’intérieur de l’iPhone, les vraies polices de l’appli (Quicksand, Manrope, JetBrains Mono).
 
 **Do / Don't:**
 - Jamais de signal ou de conseil d'achat/vente à l'écran ; le narrateur décrit.
